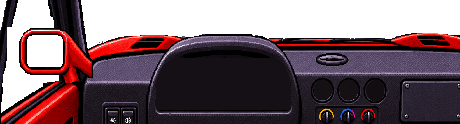
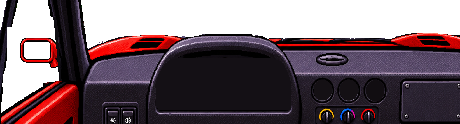
v0.53.13: retrovisor da Fúria F4 do lado de fora, visto pela janela (coluna e porta na frente do braço)
Claude-Session: https://claude.ai/code/session_01MLD9VR7gkmY4w6a9beZcp6

Changed region(s): [[0.0304, 0.2177, 0.213, 0.6774]]

diff --git a/src/cockpit.ts b/src/cockpit.ts
@@ -143,7 +143,7 @@ const COCKPIT_ART: Record<string, CockpitArt> = {
   // e a do console a 0,774 (F4C), com o passo dos três relógios da arte
   f40: { dash: dashF40Png, top: topF40Png, wheel: wheelF40Png, dashMask: cp('f40-dash-mask'), topMask: cp('f40-top-mask'),
     pivot: [119.2, 120], wheelTop: 0, tells: null,
-    glass: { at: [36, 127], thr: 256 }, pod: { x: 228, y: 33, r: 9, face: 'black', bezel: 'black', lit: 'green' }, radar: [205, 35], glow: '110,230,140', glowK: 0.5,
+    glass: { at: [30, 125], thr: 256 }, pod: { x: 228, y: 33, r: 9, face: 'black', bezel: 'black', lit: 'green' }, radar: [205, 35], glow: '110,230,140', glowK: 0.5,
     // à noite números e marcações acendem em verde (o fundo preto continua preto), ponteiros também
     facesLit: '110,236,140', litNeedles: true,
     faces: [{ src: cp('f40-cluster'), src2: cp('f40-cluster-2x'), ...F4Q.box(44.5, 7.5, 169, 84) },

diff --git a/tools/ref/f40_cockpit2.py b/tools/ref/f40_cockpit2.py
@@ -64,8 +64,11 @@ TRI = [(115, 50), (122, 100), (153, 200), (178, 290), (52, 290), (63, 250), (75,
 FAR = [(0, 0), (70, 0), (48, 100), (26, 200), (5, 300), (0, 300)]  # vidro à esquerda da moldura da porta
 MIR_SEED = (100, 370)           # vidro do retrovisor externo
 MIR_GLASS = (25, 322, 171, 427, 12)  # o vidro (cantos redondos), medido
-OLD_MIR_AT = (100, 7)           # canto do recorte (linha, coluna do empilhado): moldura esquerda na col 19, a de baixo encostando no canto da coluna com a porta
-MIR_FRONT = os.environ.get('MIR_BEHIND') is None  # o retrovisor inteiro na frente da parte de baixo da coluna
+OLD_K = 0.54                    # escala do retrovisor antigo em relação à cabine (carcaça + vidro cabem até a coluna)
+OLD_HOUSING_LT = (28, 270)      # canto de cima à esquerda da carcaça na arte antiga
+OLD_GLASS = (62, 297, 232, 396, 16)   # vidro do retrovisor na arte antiga
+OLD_FRAME_SEED = (40, 350)      # um ponto da moldura vermelha na arte antiga
+OLD_MIR_AT = (19, 113)          # onde cai o canto da carcaça no empilhado (coluna, linha)
 MIR_MAX_COL = 100                # não passa daqui (à direita da coluna é o para-brisa)
 WS_PROBE = (200, 60)            # um ponto do para-brisa (col, linha)
 MIR_ERASE_TOP = 288             # o retrovisor da arte nova começa aqui (arte)
@@ -179,6 +182,29 @@ def mir_glass(H, W):
     return mm > 0
 
 
+def old_mirror(old):
+    """retrovisor esquerdo da arte anterior: carcaça e braço vermelhos (componente que contém a moldura),
+    o contorno escuro colado neles e o vidro (retângulo de cantos redondos medido)"""
+    H, W = old.shape[:2]
+    yy, xx = np.mgrid[0:H, 0:W]
+    hsv = cv2.cvtColor(old, cv2.COLOR_RGB2HSV_FULL).astype(int)
+    hue = hsv[..., 0] * 360 / 256
+    red = ((hue < 22) | (hue > 330)) & (hsv[..., 1] > 60) & (hsv[..., 2] > 30)
+    box = (xx < 345) & (yy > 262) & (yy < 462)
+    n, lab = cv2.connectedComponents((red & box).astype(np.uint8), connectivity=8)
+    part = lab == lab[OLD_FRAME_SEED[1], OLD_FRAME_SEED[0]]
+    x0, y0, x1, y1, r = OLD_GLASS
+    g = np.zeros((H, W), np.uint8)
+    cv2.rectangle(g, (x0 + r, y0), (x1 - r, y1), 1, -1)
+    cv2.rectangle(g, (x0, y0 + r), (x1, y1 - r), 1, -1)
+    for cx, cy in ((x0 + r, y0 + r), (x1 - r, y0 + r), (x0 + r, y1 - r), (x1 - r, y1 - r)):
+        cv2.circle(g, (cx, cy), r, 1, -1)
+    glass = g > 0
+    dark = old.astype(int).mean(axis=2) < 70
+    ring = (cv2.dilate((part | glass).astype(np.uint8), np.ones((9, 9), np.uint8)) > 0) & dark & box
+    return (part | ring) & ~glass, glass
+
+
 def clean(nw, roof):
     out = nw.copy()
     x0, x1 = STALK
@@ -266,25 +292,31 @@ def main():
     for i in range(1, n):  # ilhas opacas soltas no vidro (até 40 px)
         if stt[i, cv2.CC_STAT_AREA] <= 40:
             st_al[lab == i] = False
-    # retrovisor externo: o da cabine anterior (arte ca1dd71f, v0.53.7), na mesma escala, recortado em
-    # f40_old_mirror.png (alfa 255 = peça, 1 = vidro); colado só sobre a janela da porta (a coluna e a porta
-    # ficam na frente dele, como no carro: ele é preso por fora, atrás da coluna)
-    om = np.array(Image.open(os.path.join(os.path.dirname(__file__), 'f40_old_mirror.png')).convert('RGBA'))
+    # retrovisor externo: o da cabine anterior (arte cab-old.png = ca1dd71f, v0.53.7), reamostrado da arte
+    # a OLD_K da escala da cabine para a carcaça e o vidro caberem entre a borda do celular (coluna 18) e
+    # a coluna. Fica do LADO DE FORA: só entra onde é janela da porta, então a coluna, a borracha da janela
+    # e a porta passam na frente do braço e do pé (o braço aparece saindo de trás da coluna)
+    old = np.array(Image.open(os.path.join(d, 'cab-old.png')).convert('RGB'))
+    opart, oglass = old_mirror(old)
     n, lab = cv2.connectedComponents((~st_al).astype(np.uint8), connectivity=4)
     winreg = (lab > 0) & (lab != lab[WS_PROBE[1], WS_PROBE[0]])   # janelas da porta (não o para-brisa)
-    oy, ox = OLD_MIR_AT
-    for j in range(om.shape[0]):
-        for i in range(om.shape[1]):
-            y, x = oy + j, ox + i
-            if om[j, i, 3] == 0 or not (0 <= y < st_al.shape[0] and 0 <= x < MIR_MAX_COL):
+    step_x, step_y = PXW / OLD_K, PXH / OLD_K
+    ax0, ay0 = OLD_HOUSING_LT                 # canto de cima à esquerda da carcaça, na arte antiga
+    c0, r0 = OLD_MIR_AT                       # onde ele cai no empilhado (coluna, linha)
+    H0, W0 = old.shape[:2]
+    for y in range(st_al.shape[0]):
+        for x in range(MIR_MAX_COL):
+            if not winreg[y, x]:
                 continue
-            if not (MIR_FRONT or winreg[y, x]):
+            ax = int(ax0 + (x - c0 + 0.5) * step_x)
+            ay = int(ay0 + (y - r0 + 0.5) * step_y)
+            if not (0 <= ax < W0 and 0 <= ay < H0):
                 continue
-            if om[j, i, 3] == 255:
-                st_rgb[y, x], st_al[y, x], st_pz[y, x] = om[j, i, :3], True, True
-            else:  # vidro
-                st_al[y, x], st_pz[y, x] = False, False
-    # máscara de pintura: só o vermelho da peça colada (o contorno escuro não)
+            if oglass[ay, ax]:
+                st_al[y, x], st_pz[y, x], st_mir[y, x] = False, False, True
+            elif opart[ay, ax]:
+                st_rgb[y, x], st_al[y, x] = old[ay, ax], True
+                st_pz[y, x] = True
     pm = red_mask(st_rgb, st_al) & st_pz
     for name, sl in (('top', slice(0, EXT)), ('dash', slice(EXT, None))):
         Image.fromarray(np.dstack([st_rgb[sl], st_al[sl].astype(np.uint8) * 255]), 'RGBA').save(os.path.join(out, f'f40-{name}.png'), optimize=True)
